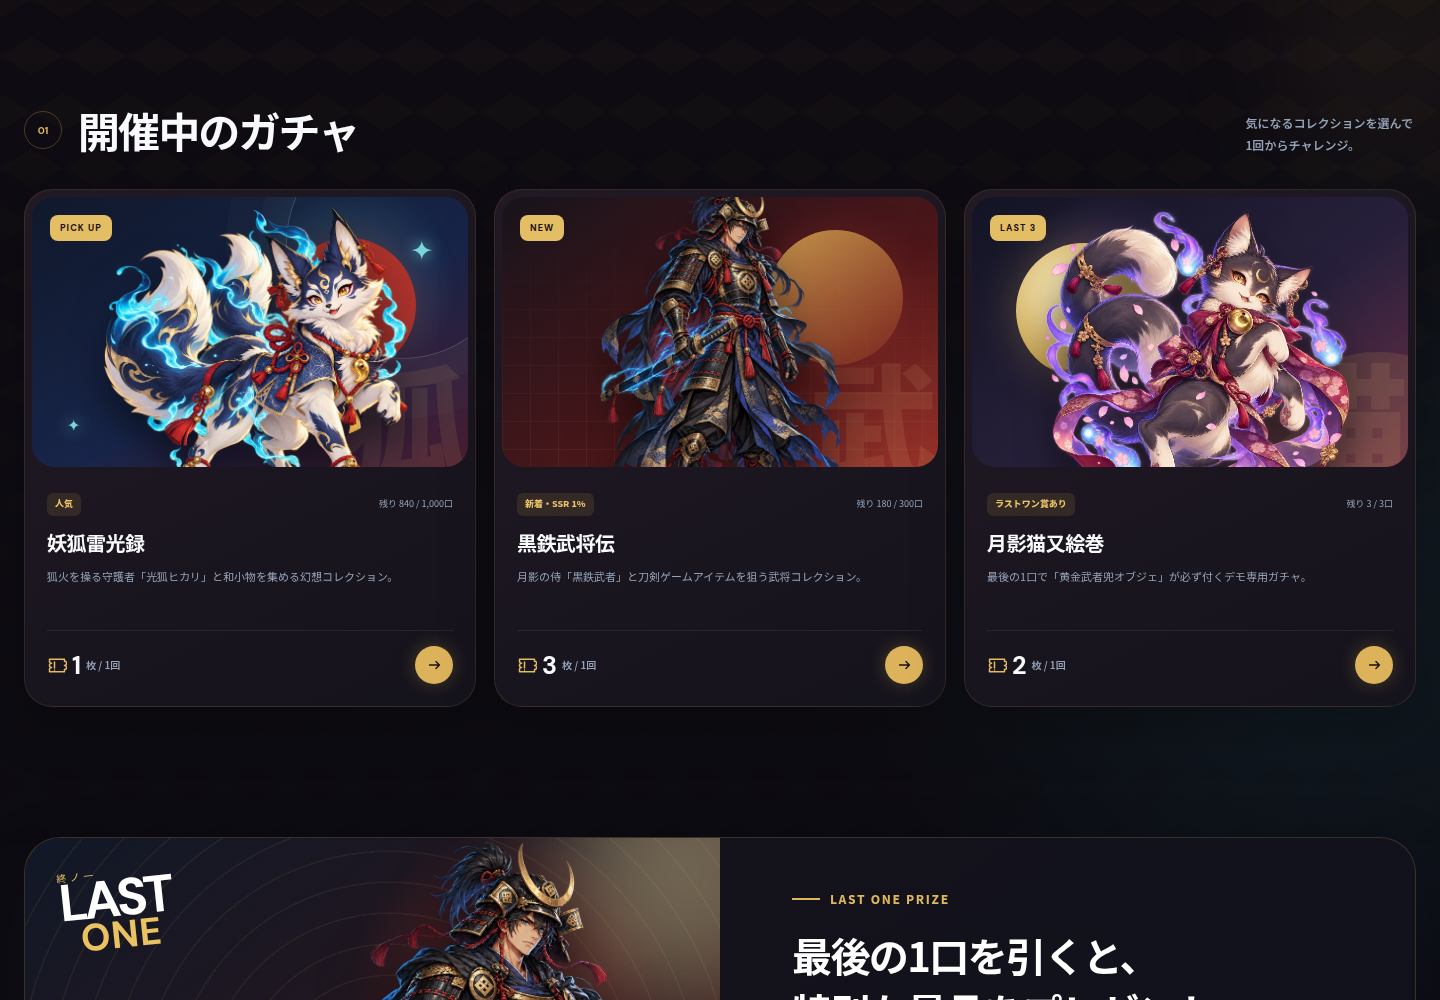
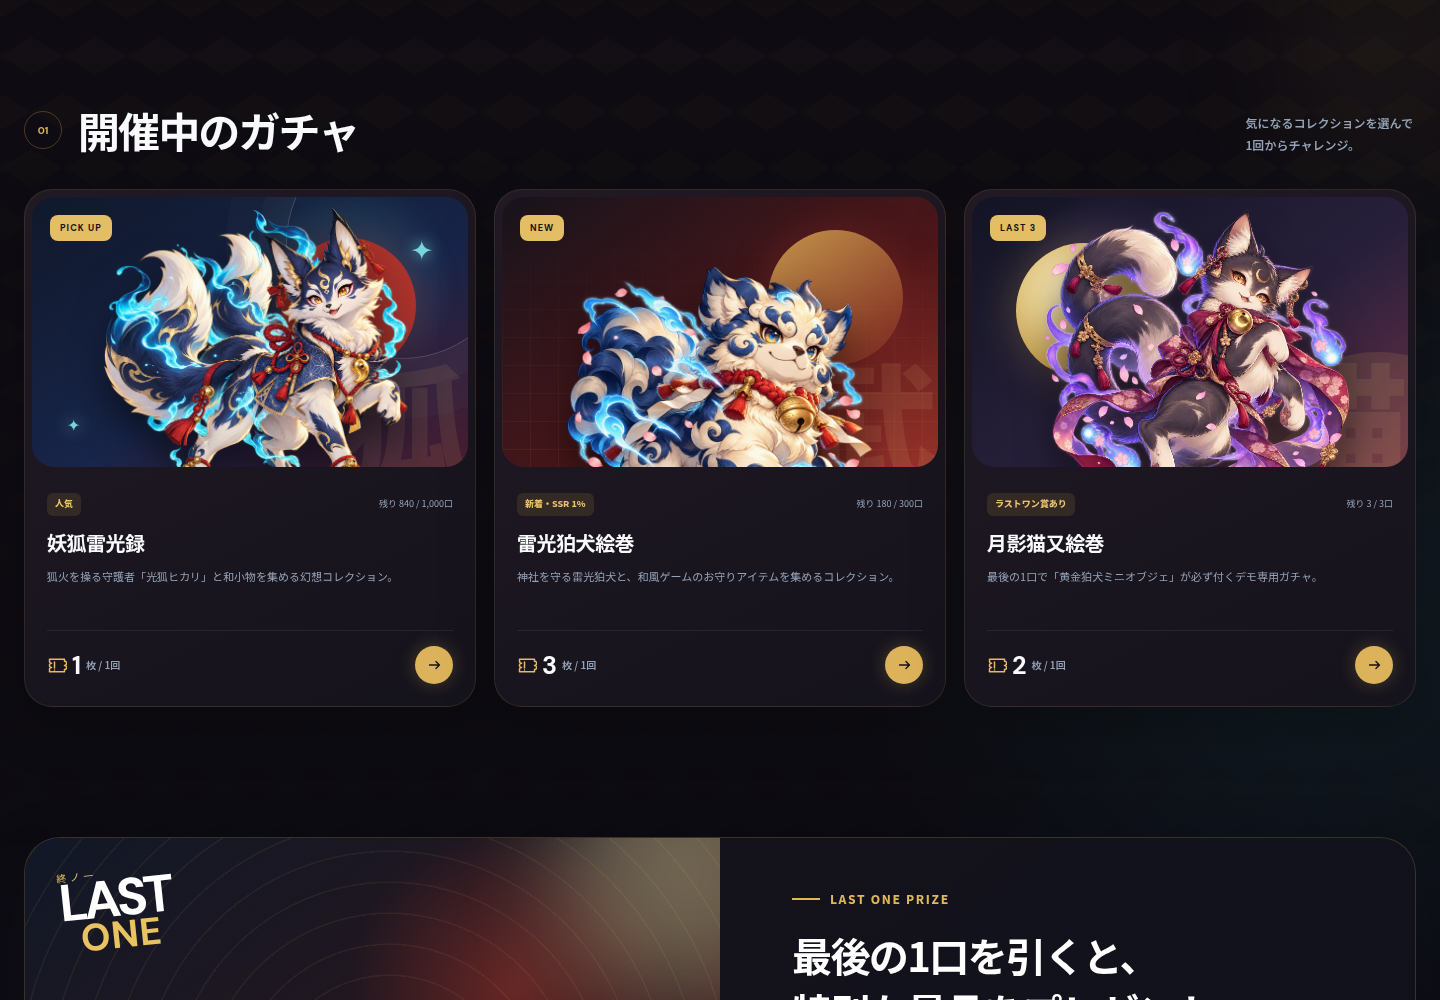
Add summon animations and animal character art

diff --git a/dist/index.html b/dist/index.html
@@ -4,7 +4,7 @@
   <meta charset="utf-8">
   <meta name="viewport" content="width=device-width, initial-scale=1">
   <meta name="theme-color" content="#110d14">
-  <meta name="description" content="妖狐・武者・猫又が彩る、和風ゲーム世界の会員制WEBガチャ「NEON TICKET」インタラクティブMVPデモです。">
+  <meta name="description" content="妖狐・狛犬・猫又が彩る、和風ゲーム世界の会員制WEBガチャ「NEON TICKET」インタラクティブMVPデモです。">
   <title>NEON TICKET | 和幻コレクションWEBガチャ</title>
   <link rel="icon" href="favicon.svg" type="image/svg+xml">
   <link rel="stylesheet" href="styles.css">
@@ -70,7 +70,7 @@
       <div class="hero-copy">
         <div class="eyebrow"><span></span>和幻召喚 / JAPANESE FANTASY GACHA</div>
         <h1 id="hero-title"><span>日常のひとときが、</span><br>物語に変わる。</h1>
-        <p>任務でチケットを集め、和幻の仲間を召喚。<br class="desktop-only">妖狐、武者、猫又との出会いを楽しもう。</p>
+        <p>任務でチケットを集め、和幻の仲間を召喚。<br class="desktop-only">妖狐、狛犬、猫又との出会いを楽しもう。</p>
         <div class="hero-actions">
           <button class="button button-primary button-large" type="button" data-draw data-campaign="neon">
             今すぐガチャを引く <svg><use href="#i-arrow"></use></svg>
@@ -80,7 +80,8 @@
         <div class="trust-note"><svg><use href="#i-check"></use></svg>チケットのみで遊べます</div>
       </div>
 
-      <div class="hero-stage japanese-stage" aria-label="オリジナルキャラクター、黒鉄武者と光狐ヒカリの限定召喚イメージ">
+      <div class="hero-stage japanese-stage" aria-label="オリジナルキャラクター、雷光狛犬と光狐ヒカリの限定召喚イメージ">
+        <canvas id="three-stage" aria-hidden="true"></canvas>
         <div class="stage-grid"></div>
         <span class="stage-kicker">NEON TICKET / 和幻絵巻</span>
         <div class="float-chip float-chip-left"><i></i> 完全オリジナルキャラクター</div>
@@ -90,9 +91,9 @@
           <div class="hero-sun" aria-hidden="true"></div>
           <div class="hero-cloud cloud-one" aria-hidden="true"></div>
           <div class="hero-cloud cloud-two" aria-hidden="true"></div>
-          <img class="hero-character hero-musha" src="assets/kurogane-musha.png" alt="三日月兜と青い刀を携えたオリジナルキャラクター、黒鉄武者" width="1024" height="1536" fetchpriority="high">
+          <img class="hero-character hero-musha" src="assets/raikou-komainu.png" alt="青い雷光をまとったオリジナルキャラクター、雷光狛犬" width="1312" height="1199" fetchpriority="high">
           <img class="hero-character hero-kitsune" src="assets/hikari-kitsune.png" alt="三本の尾と青い狐火をまとったオリジナルキャラクター、光狐ヒカリ" width="1243" height="1266" fetchpriority="high">
-          <div class="hero-nameplate"><small>SSR PICK UP</small><b>光狐ヒカリ <i>×</i> 黒鉄武者</b></div>
+          <div class="hero-nameplate"><small>SSR PICK UP</small><b>光狐ヒカリ <i>×</i> 雷光狛犬</b></div>
         </div>
         <div class="stage-footer">
           <div><small>CHAPTER 01 / 妖狐雷光録</small><b>光狐ヒカリを召喚せよ</b></div>
@@ -147,17 +148,17 @@
         </article>
 
         <article class="gacha-card" data-campaign-card="retro">
-          <button class="card-hitarea" type="button" data-draw data-campaign="retro" aria-label="黒鉄武将伝を引く"></button>
+          <button class="card-hitarea" type="button" data-draw data-campaign="retro" aria-label="雷光狛犬絵巻を引く"></button>
           <div class="gacha-art art-retro">
             <div class="art-badge">NEW</div>
             <div class="art-number">武</div>
             <div class="japanese-card-sun crimson" aria-hidden="true"></div>
-            <img class="gacha-character character-musha" src="assets/kurogane-musha.png" alt="黒鉄武者" width="1024" height="1536" loading="lazy">
+            <img class="gacha-character character-musha" src="assets/raikou-komainu.png" alt="雷光狛犬" width="1312" height="1199" loading="lazy">
           </div>
           <div class="gacha-card-body">
             <div class="gacha-meta"><span>新着・SSR 1%</span><small class="js-campaign-status" data-status-for="retro">残り 180 / 300口</small></div>
-            <h3>黒鉄武将伝</h3>
-            <p>月影の侍「黒鉄武者」と刀剣ゲームアイテムを狙う武将コレクション。</p>
+            <h3>雷光狛犬絵巻</h3>
+            <p>神社を守る雷光狛犬と、和風ゲームのお守りアイテムを集めるコレクション。</p>
             <div class="gacha-card-footer">
               <div class="price"><svg><use href="#i-ticket"></use></svg><b>3</b><span>枚 / 1回</span></div>
               <span class="round-arrow"><svg><use href="#i-arrow"></use></svg></span>
@@ -176,7 +177,7 @@
           <div class="gacha-card-body">
             <div class="gacha-meta"><span>ラストワン賞あり</span><small class="js-campaign-status" data-status-for="last">残り 3 / 3口</small></div>
             <h3>月影猫又絵巻</h3>
-            <p>最後の1口で「黄金武者兜オブジェ」が必ず付くデモ専用ガチャ。</p>
+            <p>最後の1口で「黄金狛犬ミニオブジェ」が必ず付くデモ専用ガチャ。</p>
             <div class="gacha-card-footer">
               <div class="price"><svg><use href="#i-ticket"></use></svg><b>2</b><span>枚 / 1回</span></div>
               <span class="round-arrow"><svg><use href="#i-arrow"></use></svg></span>
@@ -189,14 +190,14 @@
     <section class="content-section last-one-section" aria-labelledby="last-one-title">
       <div class="last-one-art" aria-hidden="true">
         <div class="last-label"><small>終ノ一</small><b>LAST</b><strong>ONE</strong></div>
-        <img class="last-character" src="assets/kurogane-musha.png" alt="" width="1024" height="1536" loading="lazy">
-        <div class="last-kabuto"><span></span><i></i><b></b></div>
+        <img class="last-character" src="assets/raikou-komainu.png" alt="" width="1312" height="1199" loading="lazy">
+        <div class="last-kabuto komainu-object"><span></span><i></i><b></b></div>
         <div class="last-glow"></div>
       </div>
       <div class="last-one-copy">
         <div class="eyebrow eyebrow-gold"><span></span>LAST ONE PRIZE</div>
         <h2 id="last-one-title">最後の1口を引くと、<br>特別な景品をプレゼント。</h2>
-        <p>デモ専用「月影猫又絵巻」の最後の1口には、限定「黄金武者兜オブジェ」が必ず付いてきます。</p>
+        <p>デモ専用「月影猫又絵巻」の最後の1口には、限定「黄金狛犬ミニオブジェ」が必ず付いてきます。</p>
         <div class="remaining-row">
           <div><small>ラストワン賞まで</small><b>残り <span class="js-last-count">3</span><em>口</em></b></div>
           <span>デモ専用状態</span>
@@ -326,7 +327,7 @@
         <section class="draw-lineup" aria-label="景品ラインナップ">
           <div class="draw-lineup-head"><span>PRIZE LINEUP</span><small>デモ提供割合：SSR 1%・SR 9%・R 30%・N 60%</small></div>
           <div class="draw-lineup-list js-draw-lineup"></div>
-          <p class="draw-last-note js-draw-last-note" hidden><b>LAST ONE</b> 最後の1口には黄金武者兜オブジェも付与</p>
+          <p class="draw-last-note js-draw-last-note" hidden><b>LAST ONE</b> 最後の1口には黄金狛犬ミニオブジェも付与</p>
         </section>
         <fieldset class="draw-options">
           <legend class="sr-only">抽選回数を選択</legend>
@@ -358,7 +359,7 @@
       <div class="draw-result" data-draw-step="result" hidden>
         <div class="result-burst" aria-hidden="true">✦</div>
         <div class="dialog-heading"><div class="dialog-kicker">DRAW RESULT</div><h2>結果発表！</h2><p><span class="js-result-count">1</span>回分の景品を獲得しました</p></div>
-        <div class="last-bonus-banner js-last-bonus" hidden><span>LAST ONE BONUS</span><b>黄金武者兜オブジェを獲得！</b></div>
+        <div class="last-bonus-banner js-last-bonus" hidden><span>LAST ONE BONUS</span><b>黄金狛犬ミニオブジェを獲得！</b></div>
         <div class="result-summary js-result-summary"></div>
         <div class="result-cards js-result-cards"></div>
         <button class="show-all-results js-show-all-results" type="button" hidden>全結果を表示する</button>
@@ -484,5 +485,40 @@
 
   <div class="toast" id="toast" role="status" aria-live="polite"><span class="toast-icon"><svg><use href="#i-check"></use></svg></span><p></p></div>
   <div class="sr-only" id="liveRegion" aria-live="assertive"></div>
+  <script type="module">
+    // Optional Three.js enhancement: the page remains fully functional when WebGL/CDN is unavailable.
+    (async () => {
+      const canvas = document.querySelector('#three-stage');
+      if (!canvas) return;
+      try {
+        const THREE = await import('https://cdn.jsdelivr.net/npm/three@0.180.0/build/three.module.js');
+        const scene = new THREE.Scene();
+        const camera = new THREE.PerspectiveCamera(42, 1, 0.1, 100);
+        camera.position.z = 8;
+        const renderer = new THREE.WebGLRenderer({ canvas, alpha: true, antialias: true });
+        renderer.setPixelRatio(Math.min(window.devicePixelRatio, 1.5));
+        const group = new THREE.Group();
+        scene.add(group);
+        const geometry = new THREE.TorusGeometry(2.55, 0.008, 8, 96);
+        const material = new THREE.MeshBasicMaterial({ color: 0xe2b85d, transparent: true, opacity: 0.35 });
+        group.add(new THREE.Mesh(geometry, material));
+        const dots = new THREE.BufferGeometry();
+        const positions = new Float32Array(150 * 3);
+        for (let i = 0; i < positions.length; i += 3) {
+          const radius = 2.7 + Math.random() * 1.8;
+          const angle = Math.random() * Math.PI * 2;
+          positions[i] = Math.cos(angle) * radius;
+          positions[i + 1] = (Math.random() - 0.5) * 3.5;
+          positions[i + 2] = Math.sin(angle) * radius * 0.35;
+        }
+        dots.setAttribute('position', new THREE.BufferAttribute(positions, 3));
+        group.add(new THREE.Points(dots, new THREE.PointsMaterial({ color: 0x79d8de, size: 0.035, transparent: true, opacity: 0.75 })));
+        const resize = () => { const box = canvas.parentElement.getBoundingClientRect(); renderer.setSize(box.width, box.height, false); camera.aspect = box.width / box.height; camera.updateProjectionMatrix(); };
+        resize(); window.addEventListener('resize', resize, { passive: true });
+        const tick = time => { group.rotation.y = time * 0.00008; group.rotation.x = Math.sin(time * 0.0002) * 0.06; renderer.render(scene, camera); requestAnimationFrame(tick); };
+        canvas.classList.add('is-ready'); requestAnimationFrame(tick);
+      } catch { canvas.classList.add('is-fallback'); }
+    })();
+  </script>
 </body>
 </html>

diff --git a/dist/app.js b/dist/app.js
@@ -7,7 +7,7 @@
 
   const campaigns = {
     neon: { name: '妖狐雷光録', cost: 1, total: 1000, pool: ['neonSSR', 'neonSR', 'neonR1', 'neonR2', 'neonN1', 'neonN2', 'neonN3'] },
-    retro: { name: '黒鉄武将伝', cost: 3, total: 300, pool: ['retroSSR', 'retroSR', 'retroR1', 'retroR2', 'retroN1', 'retroN2', 'retroN3'] },
+    retro: { name: '雷光狛犬絵巻', cost: 3, total: 300, pool: ['retroSSR', 'retroSR', 'retroR1', 'retroR2', 'retroN1', 'retroN2', 'retroN3'] },
     last: { name: '月影猫又絵巻', cost: 2, total: 3, lastOne: true, pool: ['lastSSR', 'lastSR', 'lastR1', 'lastR2', 'lastN1', 'lastN2', 'lastN3'] }
   };
 
@@ -19,13 +19,13 @@
     neonN1: { name: '光狐ホログラム缶バッジ', rarity: 'N', icon: '✦' },
     neonN2: { name: '鳥居アクリルチャーム', rarity: 'N', icon: '⛩' },
     neonN3: { name: '和紋ステッカーセット', rarity: 'N', icon: '🌸' },
-    retroSSR: { name: '黒鉄武者・甲冑フィギュア', rarity: 'SSR', icon: '⚔', art: 'assets/kurogane-musha.png' },
-    retroSR: { name: '蒼月刀ミニレプリカ', rarity: 'SR', icon: '🗡' },
-    retroR1: { name: '三日月兜デスククロック', rarity: 'R', icon: '🌙' },
-    retroR2: { name: '陣羽織ゲームポーチ', rarity: 'R', icon: '🎮' },
-    retroN1: { name: '家紋コインキーホルダー', rarity: 'N', icon: '🪙' },
-    retroN2: { name: '武将紋章ピンバッジ', rarity: 'N', icon: '◆' },
-    retroN3: { name: '合戦ドット絵ステッカー', rarity: 'N', icon: '🏯' },
+    retroSSR: { name: '雷光狛犬・限定フィギュア', rarity: 'SSR', icon: '🐕', art: 'assets/raikou-komainu.png' },
+    retroSR: { name: '蒼雷お守りライト', rarity: 'SR', icon: '🔷' },
+    retroR1: { name: '狛犬鈴デスクオブジェ', rarity: 'R', icon: '🔔' },
+    retroR2: { name: '神社めぐりゲームポーチ', rarity: 'R', icon: '🎮' },
+    retroN1: { name: '雷紋コインキーホルダー', rarity: 'N', icon: '🪙' },
+    retroN2: { name: '狛犬紋章ピンバッジ', rarity: 'N', icon: '◆' },
+    retroN3: { name: '和風モンスターシール', rarity: 'N', icon: '🐾' },
     lastSSR: { name: '月見猫又ぬいぐるみ', rarity: 'SSR', icon: '🐈', art: 'assets/tsukimi-nekomata.png' },
     lastSR: { name: '月鈴ナイトライト', rarity: 'SR', icon: '🔔' },
     lastR1: { name: '猫又しっぽブランケット', rarity: 'R', icon: '🧶' },
@@ -33,7 +33,7 @@
     lastN1: { name: '肉球和柄コースター', rarity: 'N', icon: '🐾' },
     lastN2: { name: '桜香る匂い袋', rarity: 'N', icon: '🌸' },
     lastN3: { name: '猫又絵巻カード', rarity: 'N', icon: '📜' },
-    lastBonus: { name: '黄金武者兜オブジェ', rarity: 'LAST', icon: '🏯' }
+    lastBonus: { name: '黄金狛犬ミニオブジェ', rarity: 'LAST', icon: '🦁' }
   };
 
   const missionRewards = { daily: 20, ad: 30, survey: 50, app: 40 };
@@ -460,6 +460,7 @@
 
   function executeDraw() {
     if (!canDraw()) return;
+    animatePulse(drawDialog, 'is-executing');
     drawLock = true; drawDialog.querySelector('.js-execute-draw').disabled = true;
     const config = campaigns[activeCampaignKey]; const current = state.campaigns[activeCampaignKey];
     const cost = selectedCount * config.cost; const transactionId = makeId('DR');
@@ -492,6 +493,7 @@
 
   function showResults(result) {
     clearTimeout(animationTimer); animationTimer = null; if (!result?.resultIds) return; drawLock = false;
+    animatePulse(drawDialog, 'is-reward');
     const counts = { SSR: 0, SR: 0, R: 0, N: 0 };
     result.resultIds.forEach(id => { counts[prizes[id].rarity] += 1; });
     drawDialog.querySelector('.js-result-count').textContent = formatNumber(result.count);
@@ -563,10 +565,24 @@
     document.querySelectorAll('dialog[open]').forEach(dialog => dialog.close()); showToast('デモデータを初期状態に戻しました');
   }
 
-  document.querySelectorAll('[data-draw]').forEach(button => button.addEventListener('click', () => openDraw(button.dataset.campaign)));
+  function animatePulse(element, className) {
+    if (!element) return;
+    element.classList.remove(className);
+    void element.offsetWidth;
+    element.classList.add(className);
+    window.setTimeout(() => element.classList.remove(className), 850);
+  }
+
+  document.querySelectorAll('[data-draw]').forEach(button => button.addEventListener('click', () => {
+    animatePulse(button, 'is-pressed');
+    animatePulse(button.closest('.gacha-card'), 'is-selected');
+    animatePulse(document.querySelector('.japanese-stage'), 'is-summoning');
+    openDraw(button.dataset.campaign);
+  }));
   drawDialog.querySelectorAll('input[name="draw-count"]').forEach(radio => radio.addEventListener('change', () => {
     selectedCount = Number(radio.value);
     drawDialog.querySelectorAll('.draw-option').forEach(label => label.classList.toggle('is-selected', label.contains(radio)));
+    animatePulse(radio.closest('.draw-option'), 'is-picked');
     updateDrawNumbers();
   }));
   drawDialog.querySelector('.js-confirm-draw').addEventListener('click', event => {

diff --git a/dist/styles.css b/dist/styles.css
@@ -542,6 +542,26 @@ main { width: min(1400px, calc(100% - 48px)); margin: 0 auto; }
 .japanese-theme .confirm-art{background:linear-gradient(135deg,#b53a33,#d2a44e)}
 .japanese-theme .portal-ring{border-color:#d4a64e}.japanese-theme .portal .r2{border-color:#76d2da}.japanese-theme .portal .r3{border-color:#bf4136}.japanese-theme .portal-core{background:#b73b32;box-shadow:0 0 60px rgba(184,59,50,.65)}
 .japanese-theme .result-burst{color:rgba(214,168,77,.1)}
+.japanese-stage #three-stage{position:absolute;z-index:0;inset:0;width:100%;height:100%;pointer-events:none;opacity:0;transition:opacity .8s ease;mix-blend-mode:screen}
+.japanese-stage #three-stage.is-ready{opacity:.7}
+.japanese-stage #three-stage.is-fallback{opacity:0}
+.japanese-stage.is-summoning{animation:stage-summon .85s cubic-bezier(.2,.8,.2,1)}
+.gacha-card.is-selected{animation:card-select .7s cubic-bezier(.2,.8,.2,1);z-index:5}
+.gacha-card .card-hitarea.is-pressed{background:radial-gradient(circle at 50% 50%,rgba(255,239,172,.18),transparent 42%);animation:button-flare .8s ease}
+.button.is-pressed{animation:button-press .45s cubic-bezier(.2,.8,.2,1)}
+.draw-option.is-picked>span{animation:option-pick .5s cubic-bezier(.2,.8,.2,1)}
+.draw-dialog.is-executing .portal{animation:portal-enter .7s cubic-bezier(.2,.8,.2,1)}
+.draw-dialog.is-reward .result-burst{animation:reward-burst 1.1s cubic-bezier(.2,.8,.2,1)}
+.draw-dialog.is-reward .result-card{animation:reward-card-in .55s cubic-bezier(.2,.8,.2,1) both}
+@keyframes stage-summon{0%,100%{filter:none}35%{filter:brightness(1.32) saturate(1.3)}60%{filter:brightness(.9) saturate(1.1)}}
+@keyframes card-select{0%{transform:translateY(0) scale(1)}35%{transform:translateY(-10px) scale(1.025);box-shadow:0 0 0 2px rgba(229,190,94,.55),0 30px 80px rgba(188,61,50,.35)}100%{transform:translateY(0) scale(1)}}
+@keyframes button-flare{0%{opacity:0}35%{opacity:1}100%{opacity:0}}
+@keyframes button-press{0%{transform:scale(1)}40%{transform:scale(.94)}100%{transform:scale(1)}}
+@keyframes option-pick{0%{transform:scale(1)}45%{transform:scale(1.045)}100%{transform:scale(1)}}
+@keyframes portal-enter{0%{transform:scale(.65) rotate(-18deg);opacity:.35}65%{transform:scale(1.08) rotate(5deg);opacity:1}100%{transform:scale(1)}}
+@keyframes reward-burst{0%{opacity:0;transform:translateX(-50%) scale(.35) rotate(-20deg)}40%{opacity:1;transform:translateX(-50%) scale(1.05) rotate(4deg)}100%{opacity:.2;transform:translateX(-50%) scale(1)}}
+@keyframes reward-card-in{0%{opacity:0;transform:translateY(22px) rotateX(18deg) scale(.9)}100%{opacity:1;transform:none}}
+@media (prefers-reduced-motion:reduce){.japanese-stage.is-summoning,.gacha-card.is-selected,.button.is-pressed,.draw-option.is-picked>span,.draw-dialog.is-executing .portal,.draw-dialog.is-reward .result-burst,.draw-dialog.is-reward .result-card{animation:none!important}.japanese-stage #three-stage{display:none!important}}
 
 @media (min-width:1001px){
   .japanese-theme .hero-copy h1{font-size:clamp(46px,4.4vw,64px)}

diff --git a/README.md b/README.md
@@ -1,6 +1,6 @@
 # NEON TICKET — 和幻コレクションWEBガチャ MVP
 
-妖狐・武者・猫又が登場する和風ゲーム世界で「チケットを貯める → ガチャを引く → 景品を申請する → 管理画面で確認する」までを約60秒で体験できる、CrowdWorks提案用のレスポンシブデモです。
+妖狐・雷光狛犬・猫又が登場する和風ゲーム世界で「チケットを貯める → ガチャを引く → 景品を申請する → 管理画面で確認する」までを約60秒で体験できる、CrowdWorks提案用のレスポンシブデモです。
 
 - 公開デモ：<https://tokimeki-draw-mvp.webnexa3114.chatgpt.site>
 - 会員登録・パスワード：不要
@@ -49,7 +49,7 @@ py -m http.server 4173 --directory dist
 
 | エリア | 主な機能 |
 | --- | --- |
-| トップ | オリジナルキャラクター、チケット残高、3種類の和風ガチャ、残り口数、ラストワン進捗 |
+| トップ | オリジナル動物キャラクター、チケット残高、3種類の和風ガチャ、残り口数、ラストワン進捗 |
 | チケット獲得 | デイリー20枚、広告30枚、3問アンケート50枚、アプリ条件40枚、共通付与履歴 |
 | ガチャ | 景品ラインナップ、提供割合、1回・10回・100回、消費確認、抽選演出、結果一覧 |
 | ラストワン | 残り3口の専用ガチャ、最後の1口だけ限定景品を一度だけ付与 |
@@ -123,7 +123,7 @@ tokimeki-draw/
 │   ├── favicon.svg
 │   └── assets/
 │       ├── hikari-kitsune.png
-│       ├── kurogane-musha.png
+│       ├── raikou-komainu.png
 │       └── tsukimi-nekomata.png
 ├── docs/screenshots/
 │   ├── desktop.png
@@ -143,4 +143,6 @@ tokimeki-draw/
 - [ポイントタウン](https://www.pointtown.com/gacha) — 条件達成型のチケット獲得導線
 - [オリポケ](https://ori-poke.com/) — 獲得景品と発送・交換フロー
 
-機能と情報設計のみを参考にし、ロゴ、画像、キャラクター、固有デザイン、ソースコードは複製していません。光狐ヒカリ、黒鉄武者、月見猫又は、この提案デモのために画像生成で制作した完全オリジナルキャラクターです。既存のアニメ・漫画・ゲーム作品およびキャラクターとは関係ありません。
+機能と情報設計のみを参考にし、ロゴ、画像、キャラクター、固有デザイン、ソースコードは複製していません。光狐ヒカリ、雷光狛犬、月見猫又は、この提案デモのために画像生成で制作した完全オリジナルキャラクターです。既存のアニメ・漫画・ゲーム作品およびキャラクターとは関係ありません。
+
+ヒーロー背景にはThree.jsを任意読み込みし、金色の輪と青い粒子がゆっくり浮遊する演出を追加しています。CDNやWebGLが使えない環境では自動的にCSSデザインへフォールバックします。ボタン選択、キャラクター選択、抽選開始、報酬表示にも低負荷のフィードバックアニメーションを適用しています。
